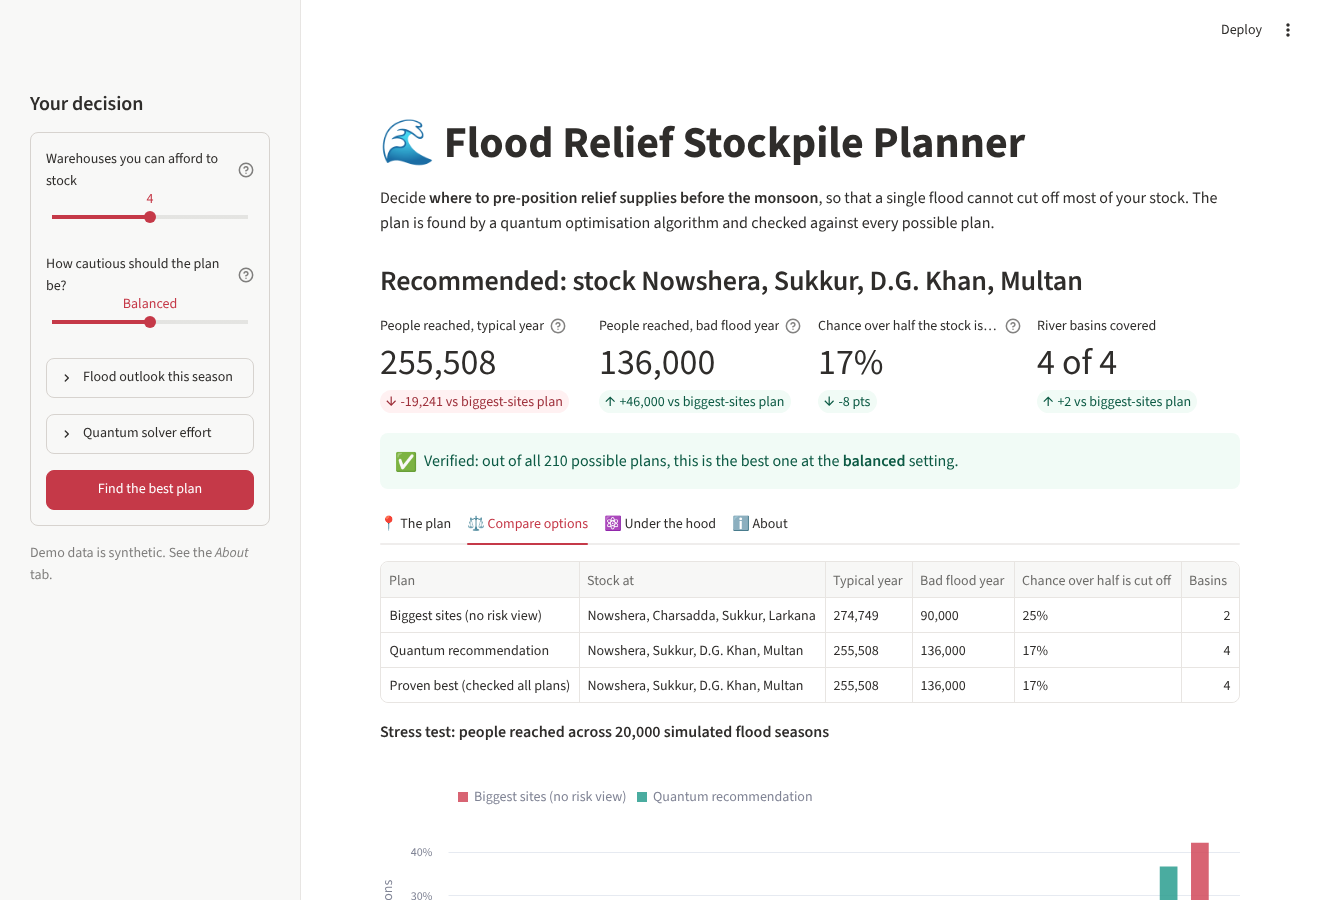
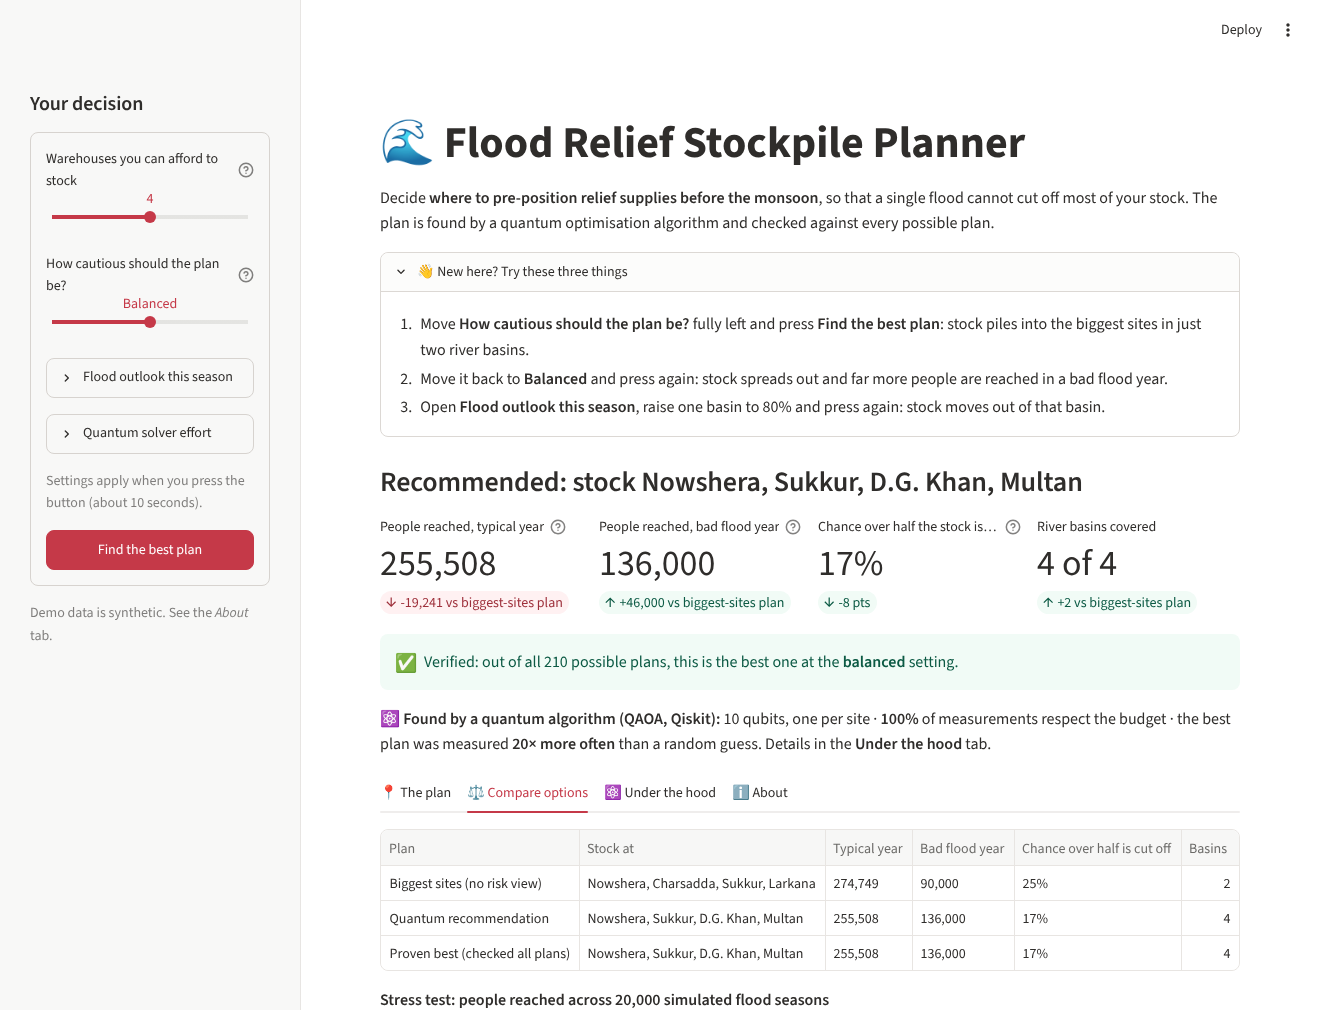
Update app

diff --git a/src/worker.py b/src/worker.py
@@ -1,0 +1,78 @@
+"""A tiny helper process that runs the quantum simulation for the app.
+
+Why: Streamlit re-runs the page on a new thread for every click. The solver
+is kept in ONE separate, long-lived Python process instead, so all Qiskit
+work happens on that process's main thread. The app talks to it over its
+stdin/stdout pipes using pickled messages:
+
+    app  -> worker : (function_name, args)
+    worker -> app  : ("ok", result)  or  ("error", message)
+
+Run as a server with:  python -m src.worker   (the app does this for you)
+"""
+import pickle
+import subprocess
+import sys
+import threading
+from pathlib import Path
+
+PROJECT_ROOT = Path(__file__).resolve().parent.parent   # folder containing src/
+
+
+class Worker:
+    """Client side: starts the helper process and sends it requests."""
+
+    def __init__(self):
+        self._lock = threading.Lock()     # one request at a time
+        self._process = None
+
+    def _start(self):
+        self._process = subprocess.Popen(
+            [sys.executable, "-m", "src.worker"], cwd=PROJECT_ROOT,
+            stdin=subprocess.PIPE, stdout=subprocess.PIPE)
+
+    def _request(self, name, args):
+        pickle.dump((name, args), self._process.stdin)
+        self._process.stdin.flush()
+        return pickle.load(self._process.stdout)
+
+    def call(self, name, *args):
+        """Run service.<name>(*args) in the helper and return its result.
+        If the helper has died, start a new one and try once more."""
+        with self._lock:
+            for attempt in (1, 2):
+                if self._process is None or self._process.poll() is not None:
+                    self._start()
+                try:
+                    status, value = self._request(name, args)
+                    break
+                except (EOFError, BrokenPipeError, OSError):
+                    self._process = None          # helper died mid-request
+                    if attempt == 2:
+                        raise RuntimeError("The quantum solver process stopped unexpectedly.")
+        if status == "error":
+            raise RuntimeError(value)
+        return value
+
+
+def main():
+    """Server side: answer requests until the app closes the pipe."""
+    from . import service                 # imports Qiskit; only the helper needs it
+    replies = sys.stdout.buffer           # keep the real stdout for replies only
+    sys.stdout = sys.stderr               # any stray print() goes to stderr instead
+    requests = sys.stdin.buffer
+    while True:
+        try:
+            name, args = pickle.load(requests)
+        except EOFError:                  # app exited
+            return
+        try:
+            reply = ("ok", getattr(service, name)(*args))
+        except Exception as exc:          # report the problem instead of dying
+            reply = ("error", f"{type(exc).__name__}: {exc}")
+        pickle.dump(reply, replies)
+        replies.flush()
+
+
+if __name__ == "__main__":
+    main()

diff --git a/src/service.py b/src/service.py
@@ -1,0 +1,44 @@
+"""Solver entry points used by the app.
+
+The app runs these inside one long-lived helper process (src/worker.py),
+so all Qiskit work happens on that process's main thread.
+
+Everything returned here is plain data (numbers and numpy arrays), so it can
+travel between processes and be cached safely.
+"""
+from .instance import make_instance
+from .qaoa import run_qaoa, sample_counts, noisy_counts
+from .evaluate import counts_to_probs
+
+# trained circuits kept inside the worker, so the noise simulation can reuse
+# them without retraining; key = (k, lam, flood_items, depth)
+_TRAINED = {}
+
+
+def _train(k, lam, flood_items, depth):
+    """Train (or fetch) the constraint-preserving QAOA for these settings."""
+    key = (k, lam, flood_items, depth)
+    if key not in _TRAINED:
+        inst = make_instance(k=k, flood_prob=dict(flood_items))
+        _TRAINED[key] = run_qaoa(inst.mu, inst.sigma, lam, k,
+                                 method="xy", p=depth, objective="cvar")
+    return _TRAINED[key]
+
+
+def plan(k, lam, flood_items, depth):
+    """Train the circuit, measure it 2,048 times on an ideal simulator.
+    Returns (measured probability of every bitstring, circuit statistics)."""
+    res = _train(k, lam, flood_items, depth)
+    n = res.circuit.num_qubits
+    probs = counts_to_probs(sample_counts(res), n)
+    stats = {"qubits": n, "gates": res.circuit.size(),
+             "depth": res.circuit.depth(), "evaluations": res.evaluations}
+    return probs, stats
+
+
+def noisy_plan(k, lam, flood_items, depth, error):
+    """Measure the same trained circuit on a noisy simulated device.
+    Returns (measured probabilities, number of CX gates after compiling)."""
+    res = _train(k, lam, flood_items, depth)
+    counts, cx, _ = noisy_counts(res, error)
+    return counts_to_probs(counts, res.circuit.num_qubits), cx

diff --git a/README.md b/README.md
@@ -12,7 +12,7 @@ A constraint-preserving quantum optimiser (QAOA in Qiskit) that picks warehouse 
 ![Tests](https://img.shields.io/badge/tests-8%20passing-2a9d8f)
 ![Domain](https://img.shields.io/badge/Domain-Disaster%20Response-d1495b)
 
-[**Run it**](#-run-it-in-2-minutes) · [**The idea**](#-the-idea-in-30-seconds) · [**How it works**](#-how-it-works) · [**Results**](#-results) · [**Limits**](#-honest-limitations) · [**Report**](docs/REPORT.md) · [**Pitch**](docs/PITCH.md)
+[**Run it**](#-run-it-in-2-minutes) · [**The idea**](#-the-idea-in-30-seconds) · [**How it works**](#-how-it-works) · [**Results**](#-results) · [**Limits**](#-honest-limitations) · [**Report (.docx)**](docs/REPORT.docx) · [**Pitch**](docs/PITCH.md)
 
 <img src="docs/app.png" width="820" alt="The planner app: recommended sites, impact numbers and plan comparison">
 
@@ -134,9 +134,10 @@ $\Sigma$ is the covariance of people reached between sites. Two sites in the sam
 | [`src/baseline.py`](src/baseline.py) | Brute-force optimum and greedy plan |
 | [`src/qaoa.py`](src/qaoa.py) | Dicke state, mixers, training, ideal and noisy sampling |
 | [`src/evaluate.py`](src/evaluate.py) | Approximation ratio, P(optimum), shortlist |
+| [`src/service.py`](src/service.py), [`src/worker.py`](src/worker.py) | Solver entry points and the helper process the app runs them in |
 | [`src/run_experiments.py`](src/run_experiments.py) | Regenerates `results/` |
 | [`tests/`](tests) | Formulation checks and an end-to-end app test |
-| [`docs/`](docs) | Brief report and 3-minute pitch script |
+| [`docs/`](docs) | Report (`REPORT.docx`, with architecture diagram), Markdown copy, 3-minute pitch script |
 </details>
 
 ## 📊 Results
@@ -207,9 +208,10 @@ The p = 3 circuit compiles to 574 CX gates. Noise breaks the budget guarantee, s
 
 ## ☁ Put the app online (optional, free)
 
-1. Push this repository to GitHub.
+1. Push this repository to GitHub. The repository owner (admin) must do the next steps.
 2. Sign in at [share.streamlit.io](https://share.streamlit.io) with GitHub and choose **Create app**.
-3. Select this repository, branch `main`, main file `app.py`, then **Deploy**.
+3. Select this repository, branch `main`, main file `app.py`.
+4. Under **Advanced settings** choose Python 3.13, then **Deploy**.
 
 ## 📚 References
 
